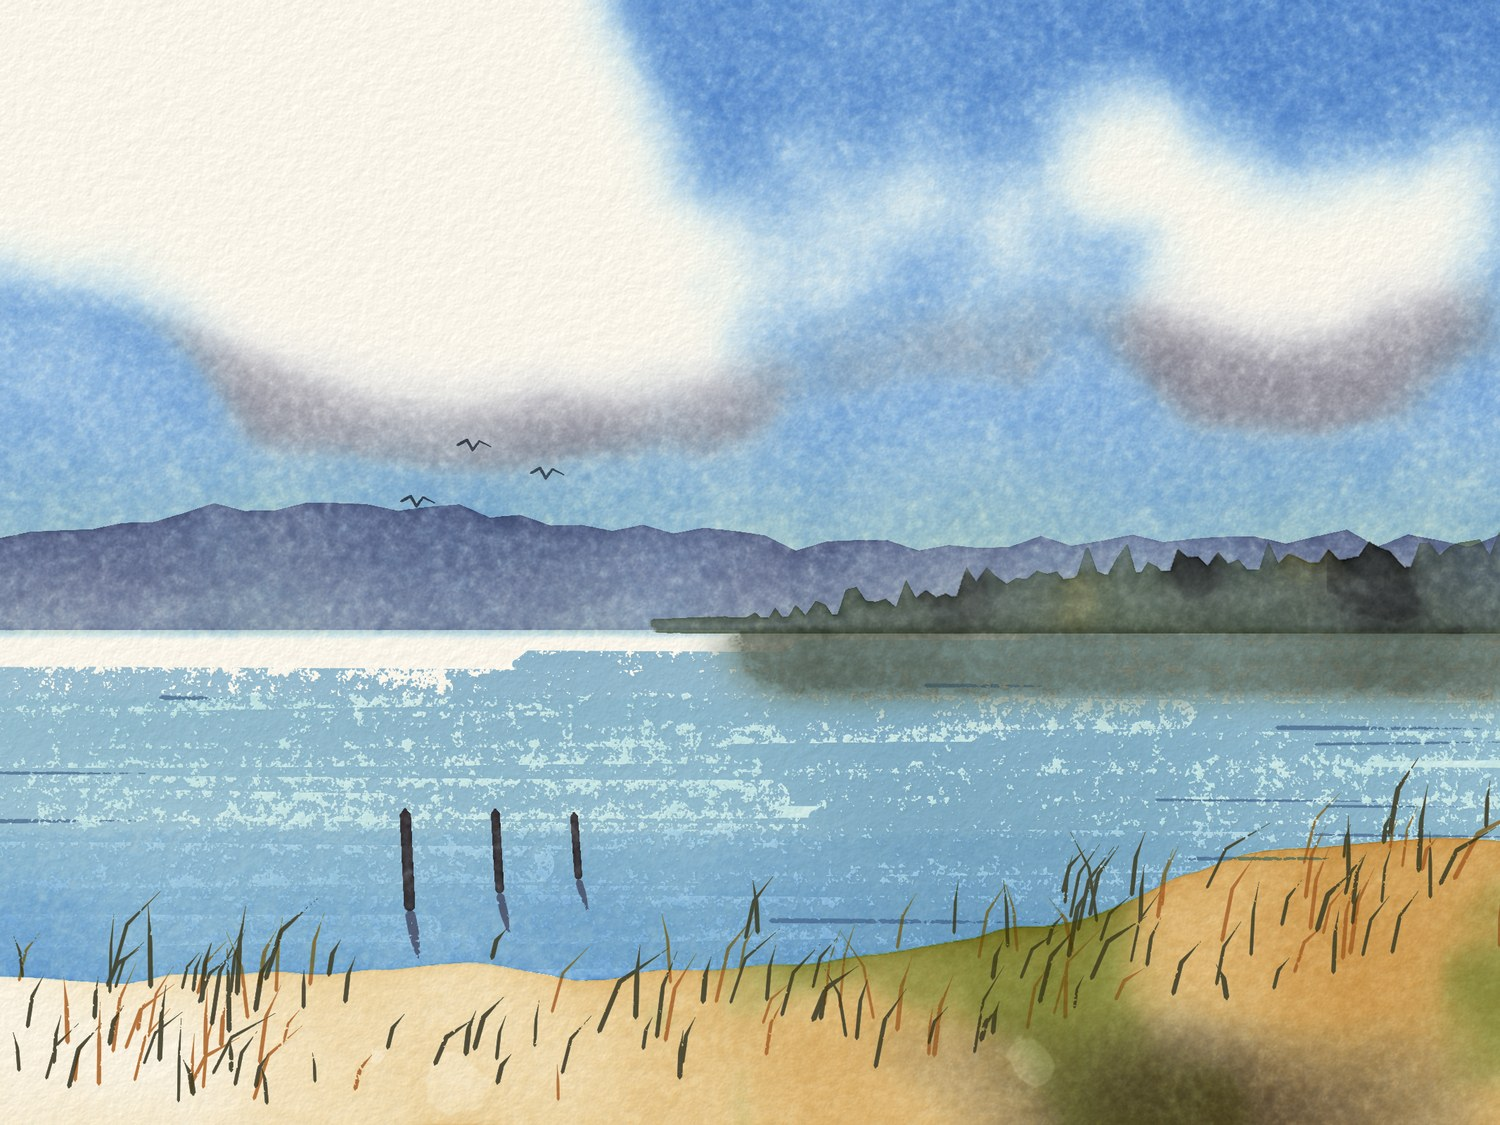
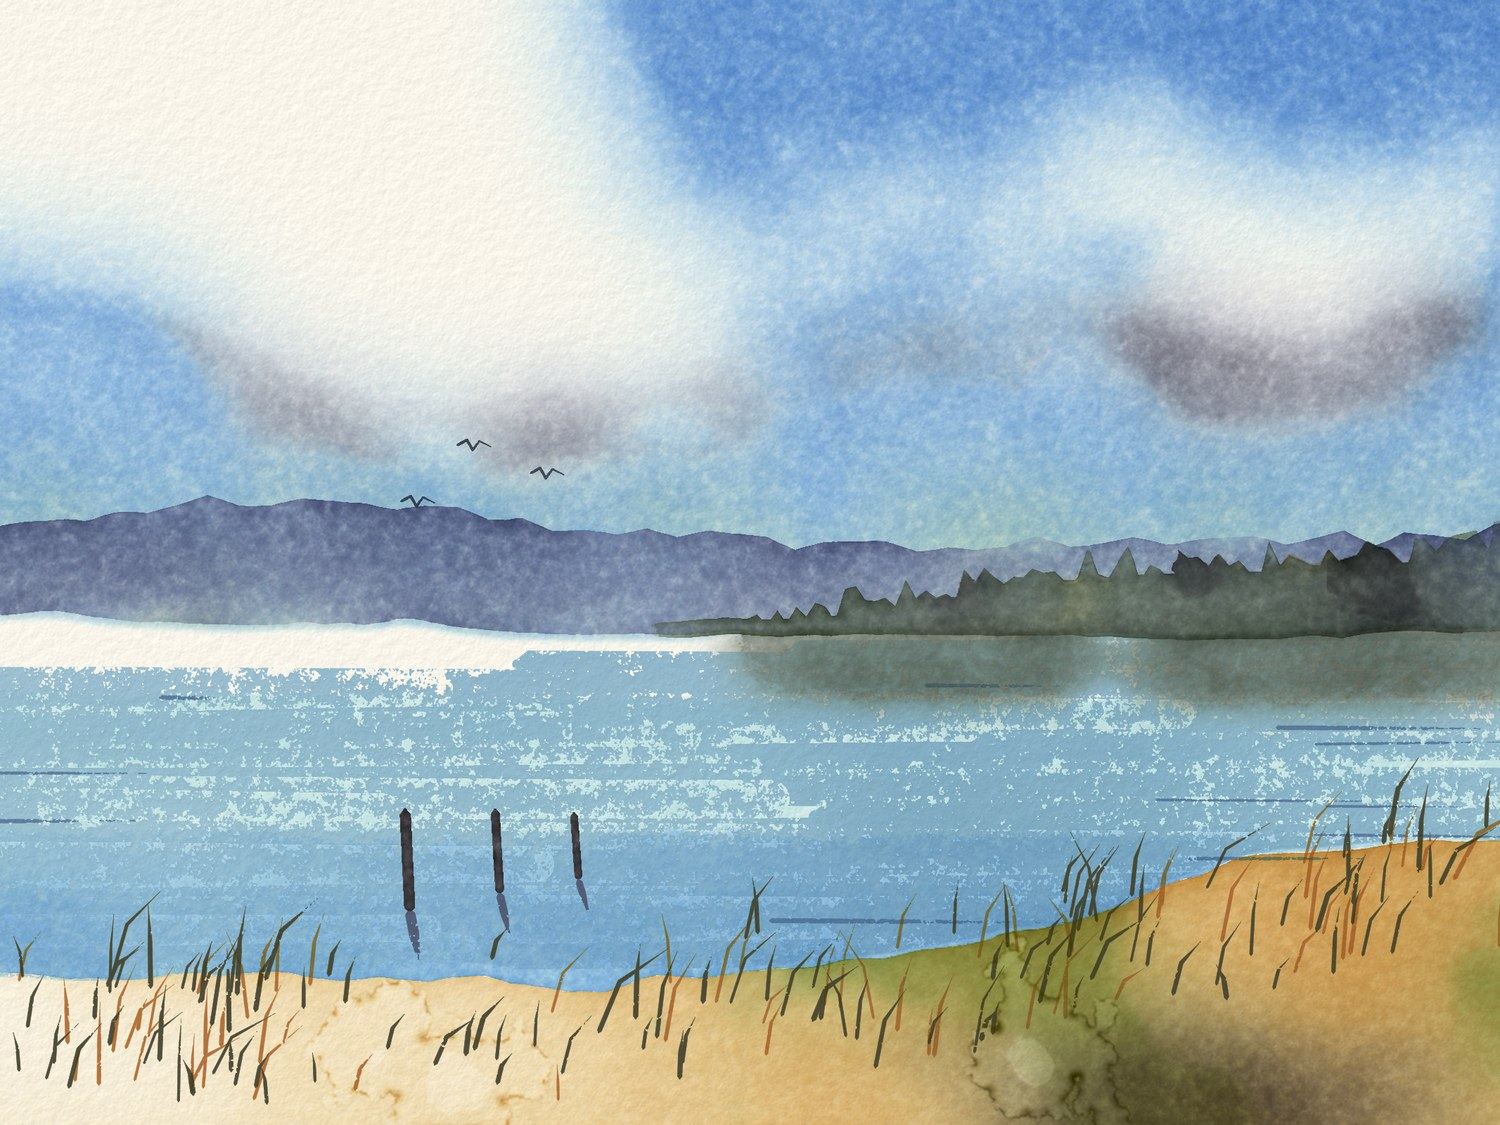
Watercolours of real mountains in the README, showcase, skill and CI
Fuji and Ararat painted with aquarelle_repaint.py, the two studies re-rendered
with hand-made edges and backruns, the tool's command in SKILL.md, the limits
restated, and a small run in the smoke test.

Claude-Session: https://claude.ai/code/session_017dhVAAuNmHvMBg3wod6FzZ

diff --git a/docs/index.html b/docs/index.html
@@ -383,6 +383,10 @@ footer{margin-top:clamp(56px,8vw,110px);padding-block:18px 36px;border-top:1px s
             <figcaption><span>Poppies · transparent layers, edges that dry darker at the rim</span><a class="save" data-save="wcPoppies" href="#" download>Save</a></figcaption>
           </figure>
         </div>
+        <figure>
+          <div class="frame free"><img id="wcFuji" src="media/wc_fuji.jpg" alt="Watercolour of Mount Fuji and its reflection in a lake, with a margin of bare paper" width="1800" height="600" loading="lazy"></div>
+          <figcaption><span>Fuji · the render from Plate III as a watercolour: lights reserved, sky wet-in-wet, land in washes from far to near</span><a class="save" data-save="wcFuji" href="#" download>Save</a></figcaption>
+        </figure>
         <div class="pair">
           <figure>
             <div class="frame free"><img id="ptCup" src="media/pt_white_cup.jpg" alt="Oil painting of a woman in an ochre sweater at a table, lifting a white cup" width="1100" height="1341" loading="lazy"></div>

diff --git a/README.md b/README.md
@@ -86,6 +86,12 @@ Ararat from golden hour into night, along the real sun path for the date: 241 fr
 
 Watercolour is not oil paint made thin, so it has its own simulator (`aquarelle.py`). The white of the paper is the light and nothing covers it: the clouds and the sparkle on the water are sheet left bare. Layers are transparent, a wash on wet paper has no edge while the same wash on dry paper keeps one and dries darker at its rim, heavy pigments settle into the valleys of the paper, and a dry brush skips them. About a minute at 2133 × 1600.
 
+<img src="docs/media/wc_fuji.jpg" alt="Watercolour of Mount Fuji and its reflection in a lake, painted from the photographic render, with a margin of bare paper" width="840">
+
+`aquarelle_repaint.py` paints any picture as a watercolour, in a watercolourist's order: the lights are reserved as bare paper, the sky is dropped into wet paper, far planes are pale washes and each nearer one is darker with a hard top edge. With the terrain renderer's painter buffers (`--aov`) it knows snow from cloud and near from far. This is the Fuji render from the top of this page; about 45 seconds. Below, Ararat painted with the buffers.
+
+<img src="docs/media/wc_ararat.jpg" alt="Watercolour of Ararat and Little Ararat over a pale plain, the snow left as bare paper" width="840">
+
 <img src="docs/media/wc_estuary_detail.jpg" alt="Detail at full size: ultramarine granulating in the paper grain on the hills, bare paper sparkle on the water" width="840">
 
 ### Set the subject up in 3D, then paint it
@@ -295,7 +301,7 @@ One CPU core:
 
 ## Limits
 
-What works and what doesn't: light, atmosphere, glass, metal and real terrain at a distance look right. Trees, houses and walls within about 60 m look rendered rather than photographed; city buildings are boxes with guessed heights; paintings soften fine detail on noisy sources; organic shapes like petals are out of reach for the path tracer. Paintings from imagination are only as good as their drawing: figures from the 3D stage hold up to half length, with a plain face, mitten-like hands and a few folds; separate fingers, a gaze, real drapery and likenesses are still out of reach. Watercolours get the paper, the transparency and the edges right, but their shapes are cleaner than a hand would make them and backruns are weak. The skills say so when a request lands there.
+What works and what doesn't: light, atmosphere, glass, metal and real terrain at a distance look right. Trees, houses and walls within about 60 m look rendered rather than photographed; city buildings are boxes with guessed heights; paintings soften fine detail on noisy sources; organic shapes like petals are out of reach for the path tracer. Paintings from imagination are only as good as their drawing: figures from the 3D stage hold up to half length, with a plain face, mitten-like hands and a few folds; separate fingers, a gaze, real drapery and likenesses are still out of reach. Watercolours get the paper, the transparency and the edges right, but backruns are drawn more than simulated, they are soft at full size, and a mountain painted without the renderer's buffers is split into planes by tone alone. The skills say so when a request lands there.
 
 ## Repository layout
 

diff --git a/CHANGELOG.md b/CHANGELOG.md
@@ -11,6 +11,7 @@ All notable changes to this project are documented here. Versions follow [semant
 - Three finished studies: `rain_at_blue_hour.py`, `wind_over_the_barley.py`, `lemons_and_blue_jug.py`. About 30k strokes and 70–90 s at 2400×1600 on one core.
 - The 3D stage: `scripts/stage.py` sets the subject up as a small scene of solids (sphere, ellipsoid, box, capsule, cylinder, cone, torus, plane, lathe), posable figures (`figure`, eight poses and joint angles, skirt, coat, hat), a camera and a light, and renders what a painter needs: a colour study in light and shadow families with cast shadows, a mask and depth per object, highlights, and brush directions that follow each form. `paint(p, B, focus=...)` lays it back to front. `load_pathtracer_scene` reads `procedural-realism` scene files. Two studies: `the_letter.py` (an interior with a seated figure) and `pomegranates_from_the_scene.py`.
 - Watercolour, a second medium: `scripts/aquarelle.py` simulates transparent pigment layers over white paper on a wetness field (wet-in-wet spread, hard edges that dry darker at the rim, granulation into the paper grain per pigment, dry brush, clean-water drops, lifting, a process film). `Paper`, `wet`, `wash`, `drop`, `stroke`, `dry`, `lift`; two studies, `estuary_in_watercolour.py` and `poppies_in_watercolour.py`; `references/aquarelle.md`.
+- Watercolour of any picture: `scripts/aquarelle_repaint.py --in IMAGE --out wc.png [--aov BANDS/aov]` reserves the lights as bare paper, drops the sky into wet paper and lays the land as washes from far to near; with the terrain renderer's painter buffers it separates snow, cloud, water and depth planes. In the engine: wash edges wander like a loaded brush (`hand=`), clean water in a drying wash leaves a backrun (`bloom=`), and colour travels further on very wet paper.
 - A closer figure: the stage's `figure()` now has a head with a jaw, brow, eye sockets, nose, mouth and ears, hair styles (`hair_style`), hands with a palm, thumb and jointed mitt that can hold things (`grip_*` joints), and cloth with folds (`drape`, `cloth=`). It holds up to half length; a third stage study, `the_white_cup.py`, shows it.
 - Moving paintings: `scripts/motion.py` paints a fixed-camera film (a sunset timelapse) as one canvas. The first frame is painted in full, a few key frames add what the fixed strokes cannot show, and every frame is the same strokes laid again in that frame's colours, so the brushwork holds still while the light moves. In the engine: `Painting.replay(tape, study)`, `tape='full'`, `fade=True` for lights that are laid only while lit.
 - Painting in sittings: `scripts/sitting.py` keeps a painting as a folder (`study.py` plus one file per sitting), checkpoints the wet canvas after each sitting and writes a look sheet (canvas, study, both in grey, difference map), so the next sitting is decided after looking; editing a sitting replays only from there. `--final` renders at full size with film and tape, `--bundle` writes one standalone script. A fourth study, `harbour_at_first_light.py`, was painted this way.

diff --git a/skills/procedural-painting/SKILL.md b/skills/procedural-painting/SKILL.md
@@ -123,7 +123,7 @@ In your own script the pieces are `Painting(..., tape='full')`, `p.replay(tape, 
 
 ## Watercolour
 
-When the user asks for watercolour, use `scripts/aquarelle.py` instead of the oil engine: `from aquarelle import *`, `p = Paper(W, H, seed=1)`. The order is the medium's own: light to dark, whites are paper left bare, a wash on wet paper has no edge and a wash on dry paper keeps one. `p.wet(mask)`, `p.wash(mask, color, strength)`, `p.drop(points, color)` (charge colour or clean water into a wet wash), `p.stroke(lines, color, size, dry=...)`, `p.dry()` between layers, `p.save(out)`. Read `references/aquarelle.md` and one of `studies/estuary_in_watercolour.py` (wet sky, granulating hills, dry-brush water) or `studies/poppies_in_watercolour.py` (transparent petal layers) first. Its limits: backruns are weak, shapes come out cleaner than a hand would make them, and it is soft at 1:1.
+When the user asks for watercolour, use `scripts/aquarelle.py` instead of the oil engine: `from aquarelle import *`, `p = Paper(W, H, seed=1)`. The order is the medium's own: light to dark, whites are paper left bare, a wash on wet paper has no edge and a wash on dry paper keeps one. `p.wet(mask)`, `p.wash(mask, color, strength)`, `p.drop(points, color)` (charge colour or clean water into a wet wash), `p.stroke(lines, color, size, dry=...)`, `p.dry()` between layers, `p.save(out)`. Read `references/aquarelle.md` and one of `studies/estuary_in_watercolour.py` (wet sky, granulating hills, dry-brush water) or `studies/poppies_in_watercolour.py` (transparent petal layers) first. To paint an existing picture or a terrain render as a watercolour: `python $S/aquarelle_repaint.py --in ararat.png --out ararat_wc.png [--aov work/ararat/bands_2400x1000/aov] [--height 1000] [--border 0]`. Its limits: backruns are drawn more than simulated, it is soft at 1:1, and without `--aov` a mountain is split into planes by tone alone.
 
 ## Watching it paint in a browser
 
